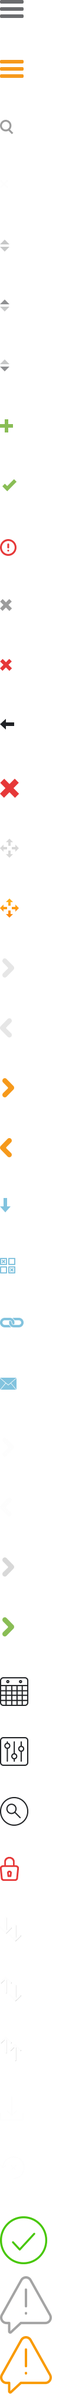
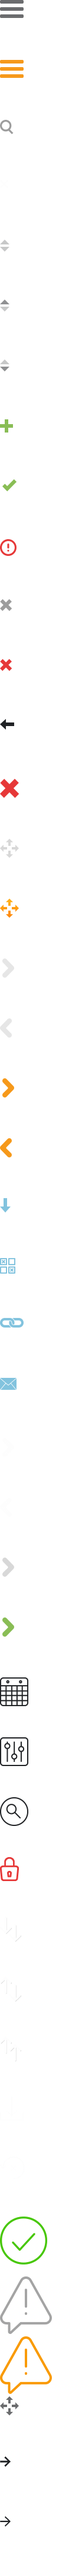
CICO-57101 - Style update

Changed region(s): [[0.0, 0.0938, 0.48, 0.8125], [0.0, 0.8438, 0.87, 1.0], [0.0, 0.0, 0.42, 0.0625]]

diff --git a/stylesheets/less/admin/05-A_components.less b/stylesheets/less/admin/05-A_components.less
@@ -1690,7 +1690,168 @@
         }
     }
 
+/* Rate Sequence Assignment ==============================*/
+    #assign-rate-sequence {
+        height: 100%;
+        &:after,
+        &:before {
+            content: '';
+            display: table;
+            clear: both;
+        }
 
+        .entry {
+            height: 100%;
+            &:after,
+            &:before {
+                content: '';
+                display: table;
+                clear: both;
+            }
+            label {
+                text-align: center;
+                text-transform: none;
+                font-size: 18px;
+
+                &:not(.green) {
+                    color: @grey3;
+                    font-style: italic;
+                }
+            }
+
+            &.movers {
+                height: 640px;
+                margin-top: 25px;
+                #flexbox > .parent( column wrap, center, center, '' );
+            }
+        }
+
+        .movers {
+            height: 640px;
+            margin: 0;
+        }
+
+        .boxes {
+            height: 640px;
+            position: relative;
+
+            ul {
+                position: absolute;
+                top: 10px;
+                width: 100%;
+                left: 0;
+                padding: 0px 20px;
+                .calc-height(100, 20);
+                overflow: scroll;
+            }
+
+            li {
+                .icon-added {
+                    position: absolute;
+                    top: 10px;
+                    right: 12px;
+                    width: 14px;
+                    height: 15px;
+                    display: block;
+                }
+            }
+
+            &.with-search {
+                padding-top: 80px;
+
+                ul {
+                    .calc-height( 100, 80 );
+                    top: 80px;
+                }
+
+                &.with-pagination {
+                    ul {
+                        .calc-height(100,160);
+                    }
+                }
+            }
+
+            &.with-pagination {
+                padding-bottom: 80px;
+            }
+
+            &.with-sequence {
+                li {
+                    font-weight: 600;
+                }
+            }
+
+            &.without-sequence {
+                li {
+                    color: @grey3;
+                    font-style: italic;
+                }
+            }
+            .search-form {
+                position: absolute;
+                top: 0;
+                left: 0;
+                width: 100%;
+                padding: 10px;
+                background: #e9e9e9;
+
+                .query {
+                    border-radius: 25px;
+                    height: 40px;
+                    padding: 0 25px;
+                }
+
+                .clear-query {
+                    position: absolute;
+                    right: 20px;
+                    top: 22px;
+                    border-radius: 50%;
+
+                    &.visible {
+                        background: lighten( @grey2, 5 );
+                    }
+                }
+
+                .icon-search {
+                    position: absolute;
+                    top: 24px;
+                    left: 20px;
+                }
+            }
+
+            .search-pagination {
+                padding: 10px;
+                background: #e9e9e9;
+
+                p {
+                    text-align: left;
+                    font-size: 16px;
+                    font-style: italic;
+                    .calc-width(100, 200);
+                }
+            }
+
+            .no-content {
+                height: 100%;
+                width: 100%;
+                position: absolute;
+                top: 0;
+                left: 0;
+                padding: 20px;
+                #flexbox > .parent( row wrap, center, center, '' );
+                .info {
+                    font-style: italic;
+                    font-size: 16px;
+                    color: @grey3;
+                    border: 1px dashed @grey3;
+                    padding: 35px;
+                    text-align: center;
+                    width: 100%;
+                }
+            }
+        }
+    }
+    
 // To align text to center with margin
 .align-text-center{
   margin-top: 10px;

diff --git a/stylesheets/less/admin/04_layout.less b/stylesheets/less/admin/04_layout.less
@@ -828,6 +828,20 @@ body { overflow: hidden; }
                         }
                     }
                 }
+
+                /* Form Row **/
+                &.form-row {
+                    td {
+                        padding: 0;
+                        background: transparent;
+
+                        .form {
+                            margin: 0;
+                            padding-top: 0;
+                            padding-bottom: 0;
+                        }
+                    }
+                }
             }
         }
 
@@ -899,6 +913,22 @@ body { overflow: hidden; }
 
         th,
         td {
+
+            &.break {
+                border-right: 1px solid rgba(0, 0, 0, 0.15 );
+            }
+            &.sequence {
+                width: 80px;
+                padding-right: 0;
+
+                .icon-handle {
+                    .hide();
+                }
+            }
+            &.sequence-rates {
+                width: 200px;
+            }
+
             &.activate {  
                 width: 110px; 
 
@@ -930,6 +960,12 @@ body { overflow: hidden; }
                         font-size: 14px;
                         color: @grey3;
                     }
+
+                    &.sequence {
+                        text-align: center;
+                        padding: 0;
+                        font-weight: 600;
+                    }
                 }
 
                 &.inactive {
@@ -941,6 +977,47 @@ body { overflow: hidden; }
                             color: @grey3; 
 
                             &:hover { color: @logoPrimary; }
+                        }
+                    }
+                }
+            }
+        }
+
+        &.draggable {
+            td {
+                &.sequence {
+                    background: #e2e2e2;
+                    padding: 0 20px;
+                    text-align: right;
+                    position: relative;
+                    box-shadow: none;
+                    .icon-handle {
+                        display: block;
+                        width: 16px;
+                        height: 16px;
+                        position: absolute;
+                        top: 20px;
+                        left: 15px;
+
+                        &.centered {
+                            top: 0;
+                            bottom: 0;
+                            left: 0;
+                            right: 0;
+                            margin: auto;
+                        }
+                    }
+                }
+            }
+
+            &:not(.editable) {
+
+                th,
+                td {
+                    &.delete {
+                        color: rgba(0, 0, 0, 0.0);
+                        * {
+                            .hide();
                         }
                     }
                 }

diff --git a/stylesheets/less/admin/05-B_forms.less b/stylesheets/less/admin/05-B_forms.less
@@ -241,6 +241,26 @@
                 &.no-margin {
                     margin-bottom: 0;
                 }
+
+                &.radio {
+                    &.bold {
+                        &.checked { font-weight: 600; }
+                    }
+                    &.with-arrow {
+                        .icon-arrow-right {
+                            display: inline-block;
+                            vertical-align: middle;
+                            .square(10px);
+                        }
+                        &.checked {
+                            .icon-arrow-right {
+                                .icons.icon-arrow-right-bold;
+                            }
+                            font-weight: 600;
+                        }
+                        
+                    }
+                }
             }
 
             input,

diff --git a/stylesheets/less/admin/03_graphics.less b/stylesheets/less/admin/03_graphics.less
@@ -103,6 +103,9 @@
 
         &.icon-action { background-position: 3px -1900px; }
         &.icon-action-progress { background-position: 3px -1950px; }
+        
+        &.icon-arrow-right-bold { background-position: 0px -2050px; }
+        &.icon-arrow-right { background-position: 0px -2100px; }
 
         &.rotate-down {
             transform:rotate(-90deg);
